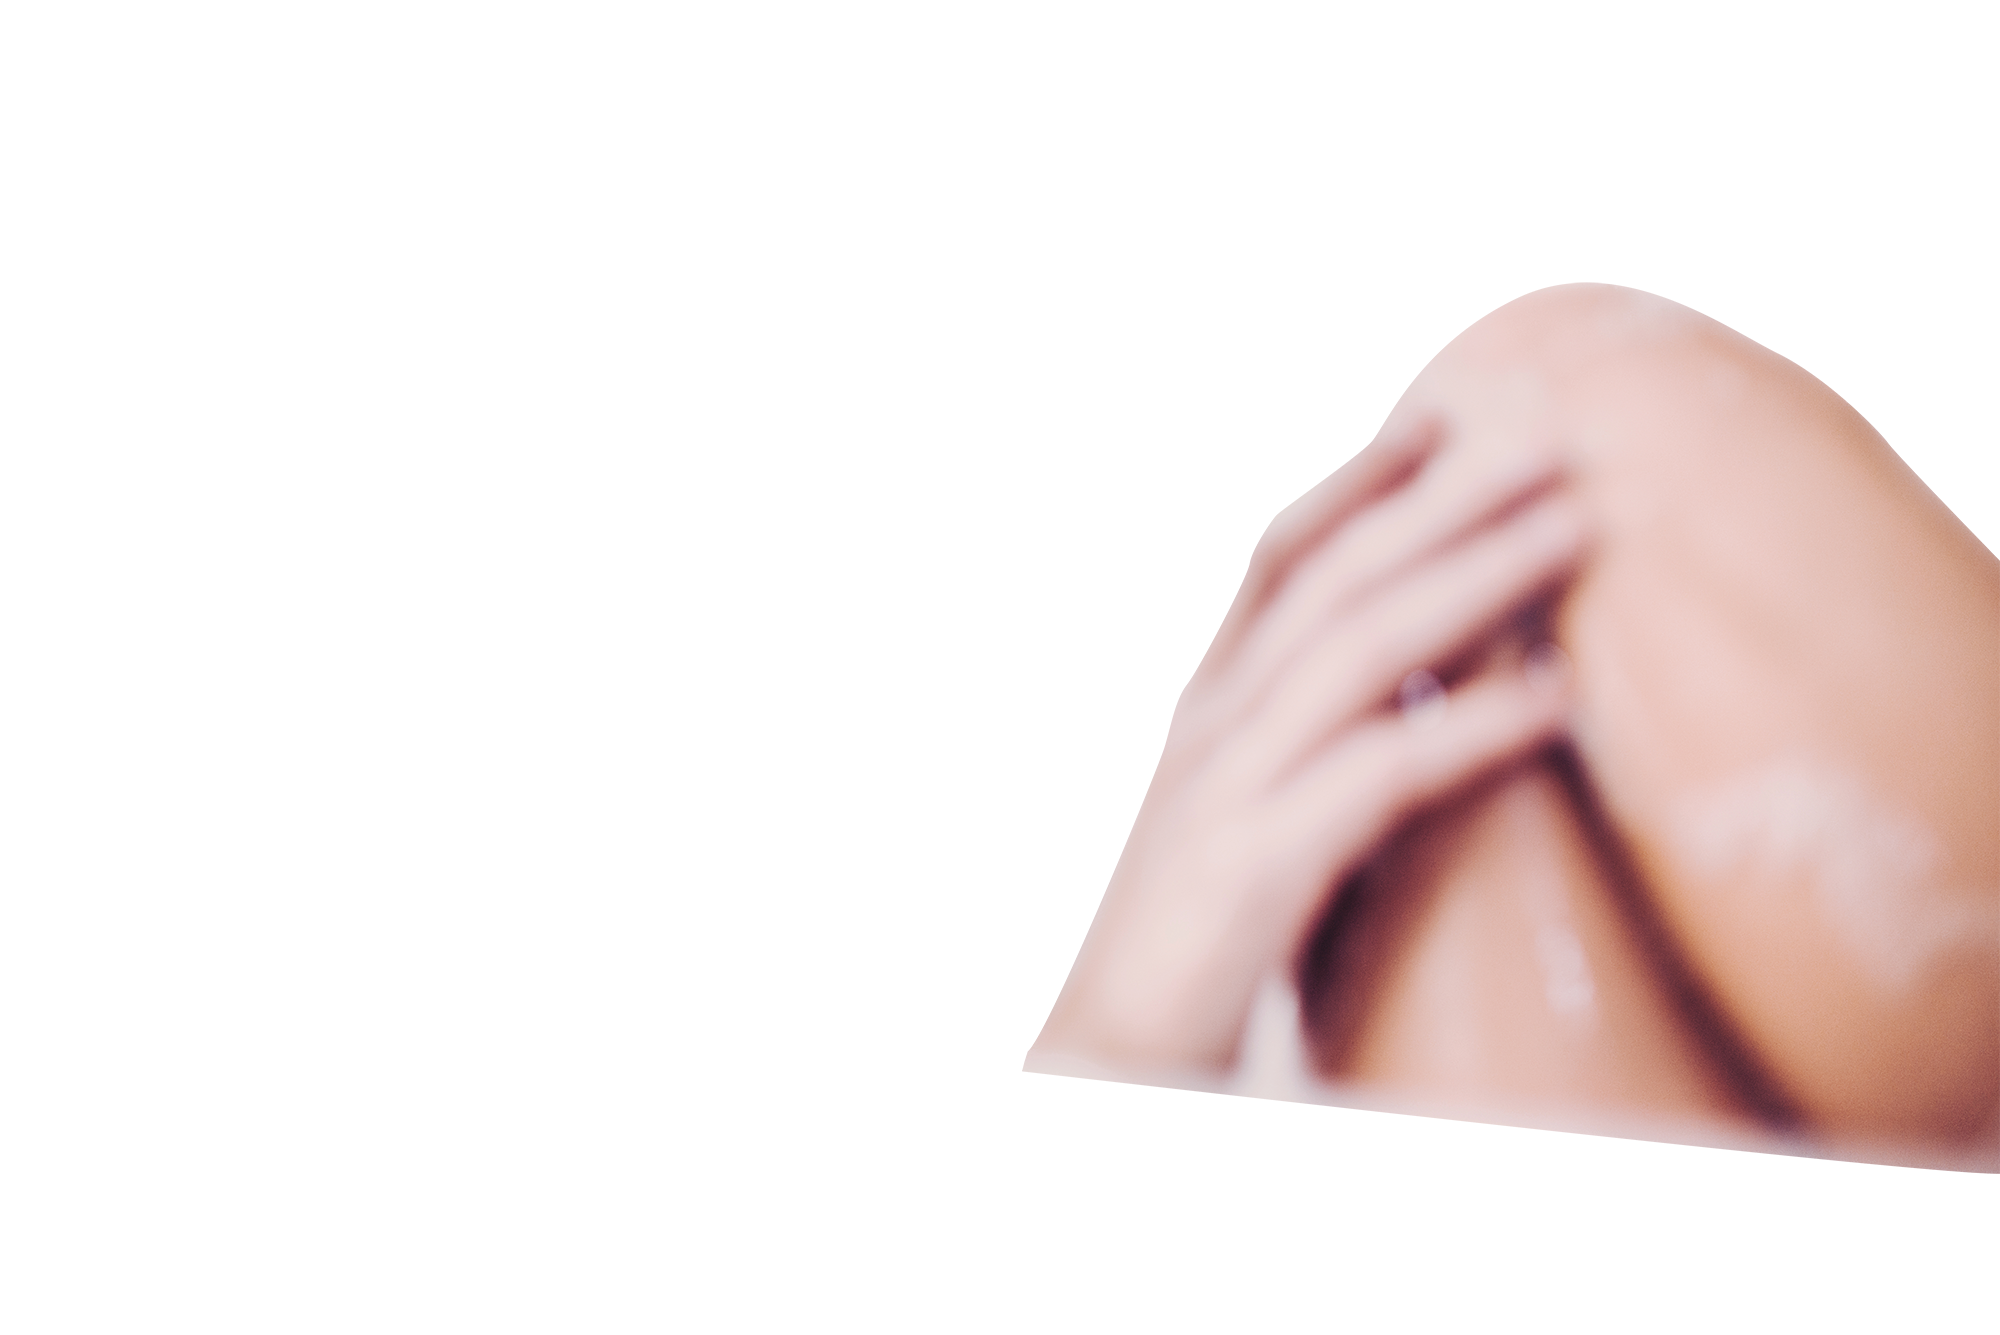
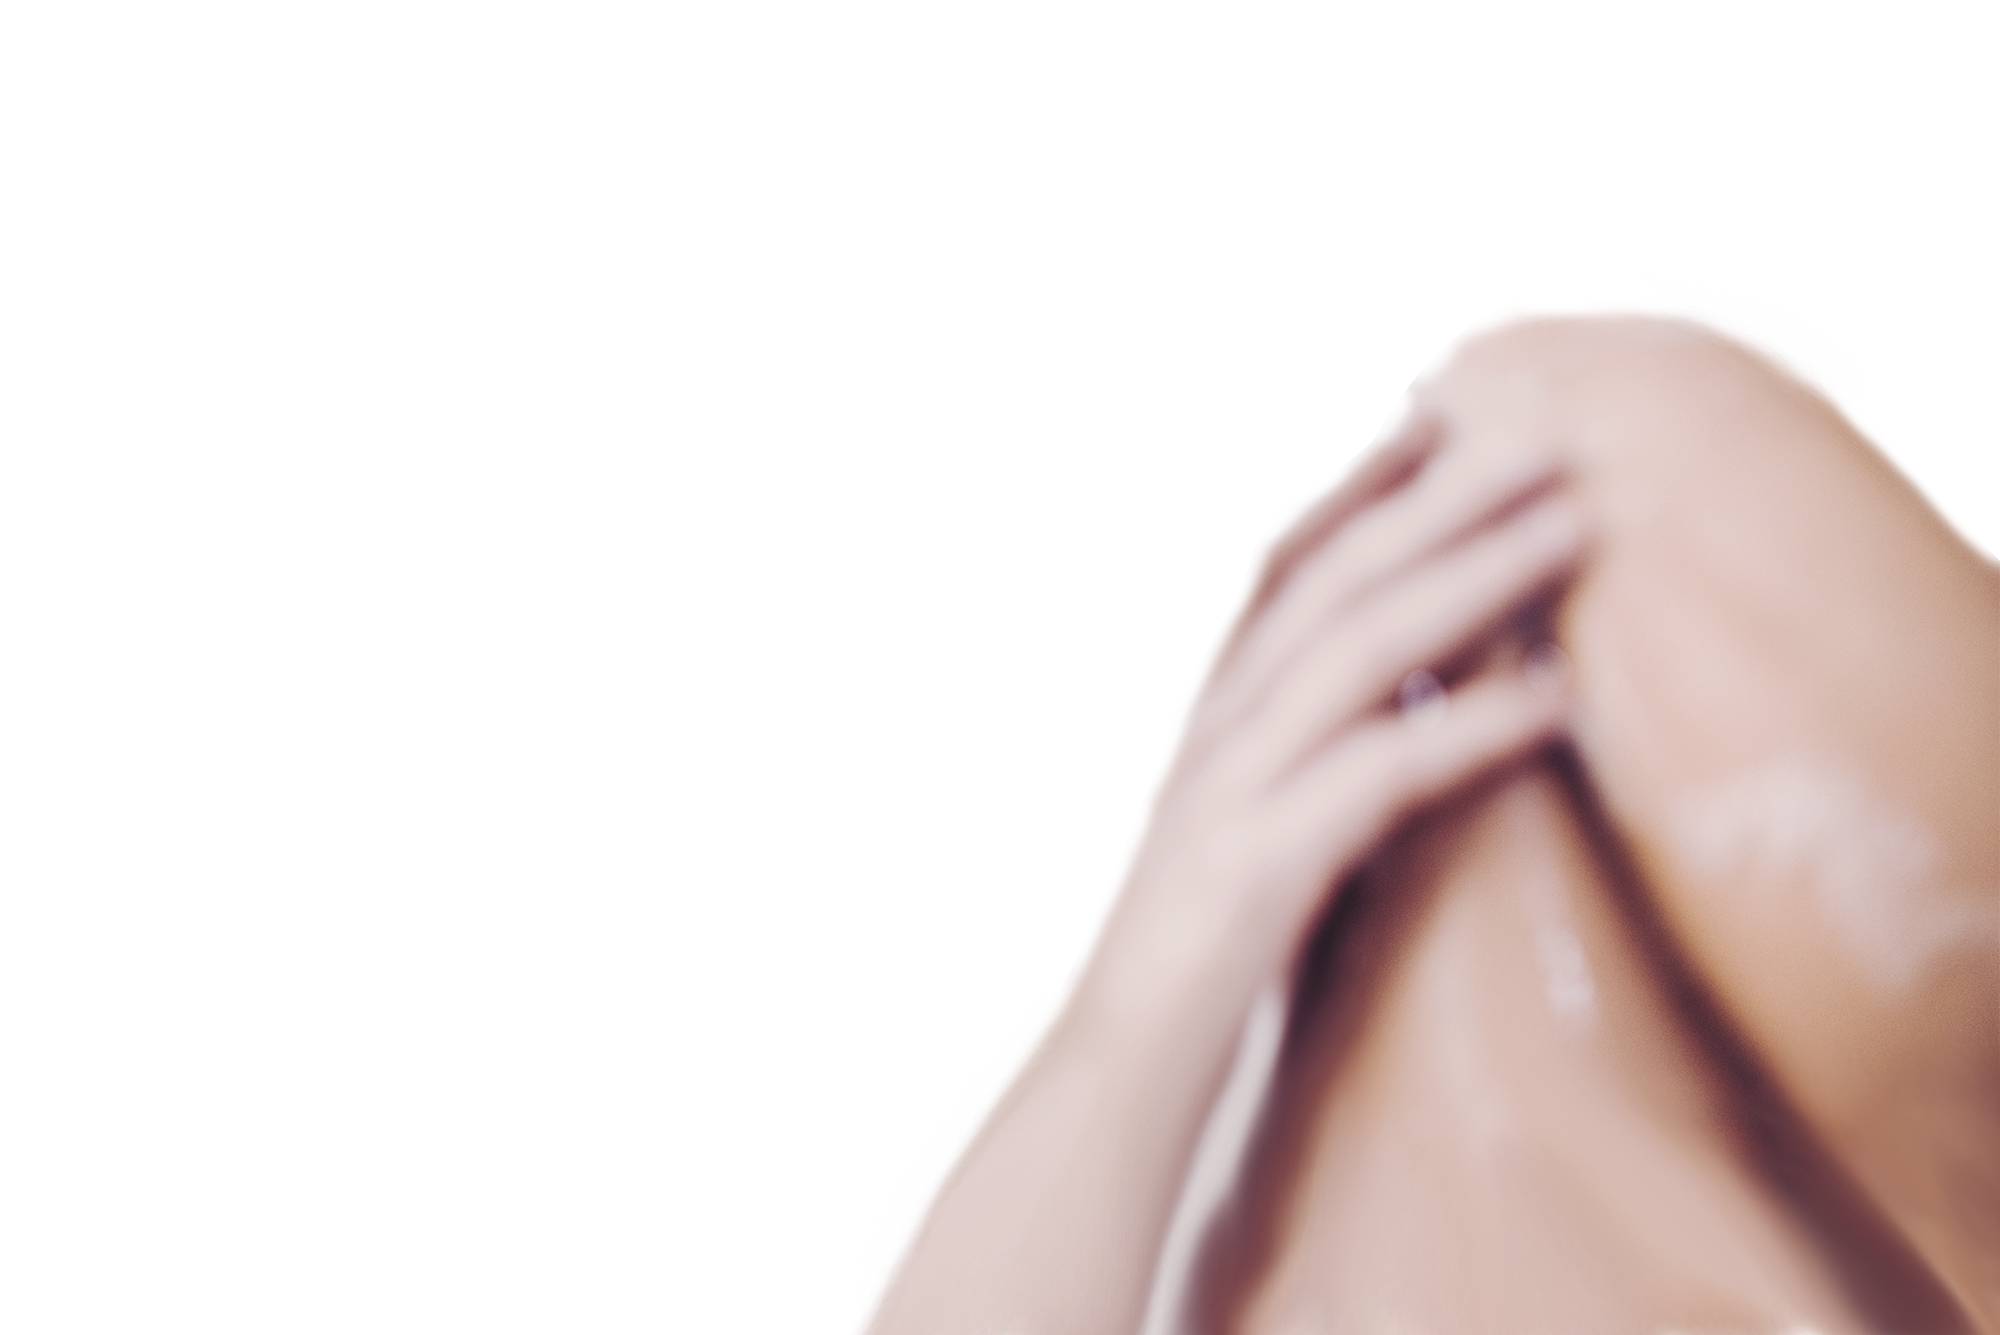
change images specs

diff --git a/silentdual/src/components/lead/index.js b/silentdual/src/components/lead/index.js
@@ -21,6 +21,7 @@ import BathImg from "../../images/banyera_imatge_promo.png";
 const Parallax = styled.div``;
 const Fixed = styled(animated.div)`
   top: 0;
+  width: 100%;
   position: fixed;
   overflow: hidden;
 `;
@@ -37,6 +38,12 @@ const LeadSection = styled.section`
 
   img {
     width: 100%;
+    &.bg {
+      z-index: 1;
+      position: absolute;
+      top: 0;
+      left: 0;
+    }
     &.leg {
       z-index: 2;
       position: absolute;
@@ -68,9 +75,9 @@ const Description = styled.div`
   background-color: rgba(0, 0, 0, 0.5);
   position: absolute;
   top: 0;
-  bottom: 0;
   left: 0;
   right: 0;
+  height: 100vh;
   display: flex;
   justify-content: center;
   align-items: center;
@@ -90,11 +97,12 @@ const Description = styled.div`
 `;
 
 const calc = (x, y) => [x - window.innerWidth / 2, y - window.innerHeight / 2];
-const legtrans = (x, y) => `translate3d(${x / 40}px,${y / 30}px,0) scale(1.05)`;
+const bgtrans = (x, y) => `translate3d(${x / 60}px,${y / 40}px,0) scale(1.05)`;
+const legtrans = (x, y) => `translate3d(${x / 40}px,${y / 10}px,0) scale(1.05)`;
 const headtrans = (x, y) =>
-  `translate3d(${x / 60}px,${y / 40}px,0) scale(1.05)`;
+  `translate3d(${x / 60}px,${y / 15}px,0) scale(1.05)`;
 const bathtrans = (x, y) =>
-  `translate3d(${x / 50}px,${y / 30}px,0) scale(1.05)`;
+  `translate3d(${x / 40}px,${y / 20}px,0) scale(1.05)`;
 
 const Lead = () => {
   const { format } = new Intl.NumberFormat("en-US", {
@@ -147,6 +155,12 @@ const Lead = () => {
           <Fixed style={parallaxProps}>
             <Parallax>
               <BackgroundImage src={BackgroundImg} alt="background" />
+              <animated.img
+                className="bg"
+                src={BackgroundImg}
+                alt="background"
+                style={{ transform: props.xy.interpolate(bgtrans) }}
+              />
               <animated.img
                 className="leg"
                 src={LegImg}

diff --git a/silentdual/src/pages/index.js b/silentdual/src/pages/index.js
@@ -11,15 +11,15 @@ import FormSection from "../components/formSection";
 import Lead from "../components/lead";
 
 const IndexPage = () => (
-	<Layout className="layout" style={{ width: "100vw" }}>
-		<Hero />
-		<Lead />
-		<Specs />
-		<DiscoverSection />
-		<InstallSection />
-		<Modelos />
-		<FormSection />
-	</Layout>
+  <Layout className="layout" style={{ width: "100vw" }}>
+    <Hero />
+    <Lead />
+    <Specs />
+    <DiscoverSection />
+    <InstallSection />
+    <Modelos />
+    <FormSection />
+  </Layout>
 );
 
 export default IndexPage;
